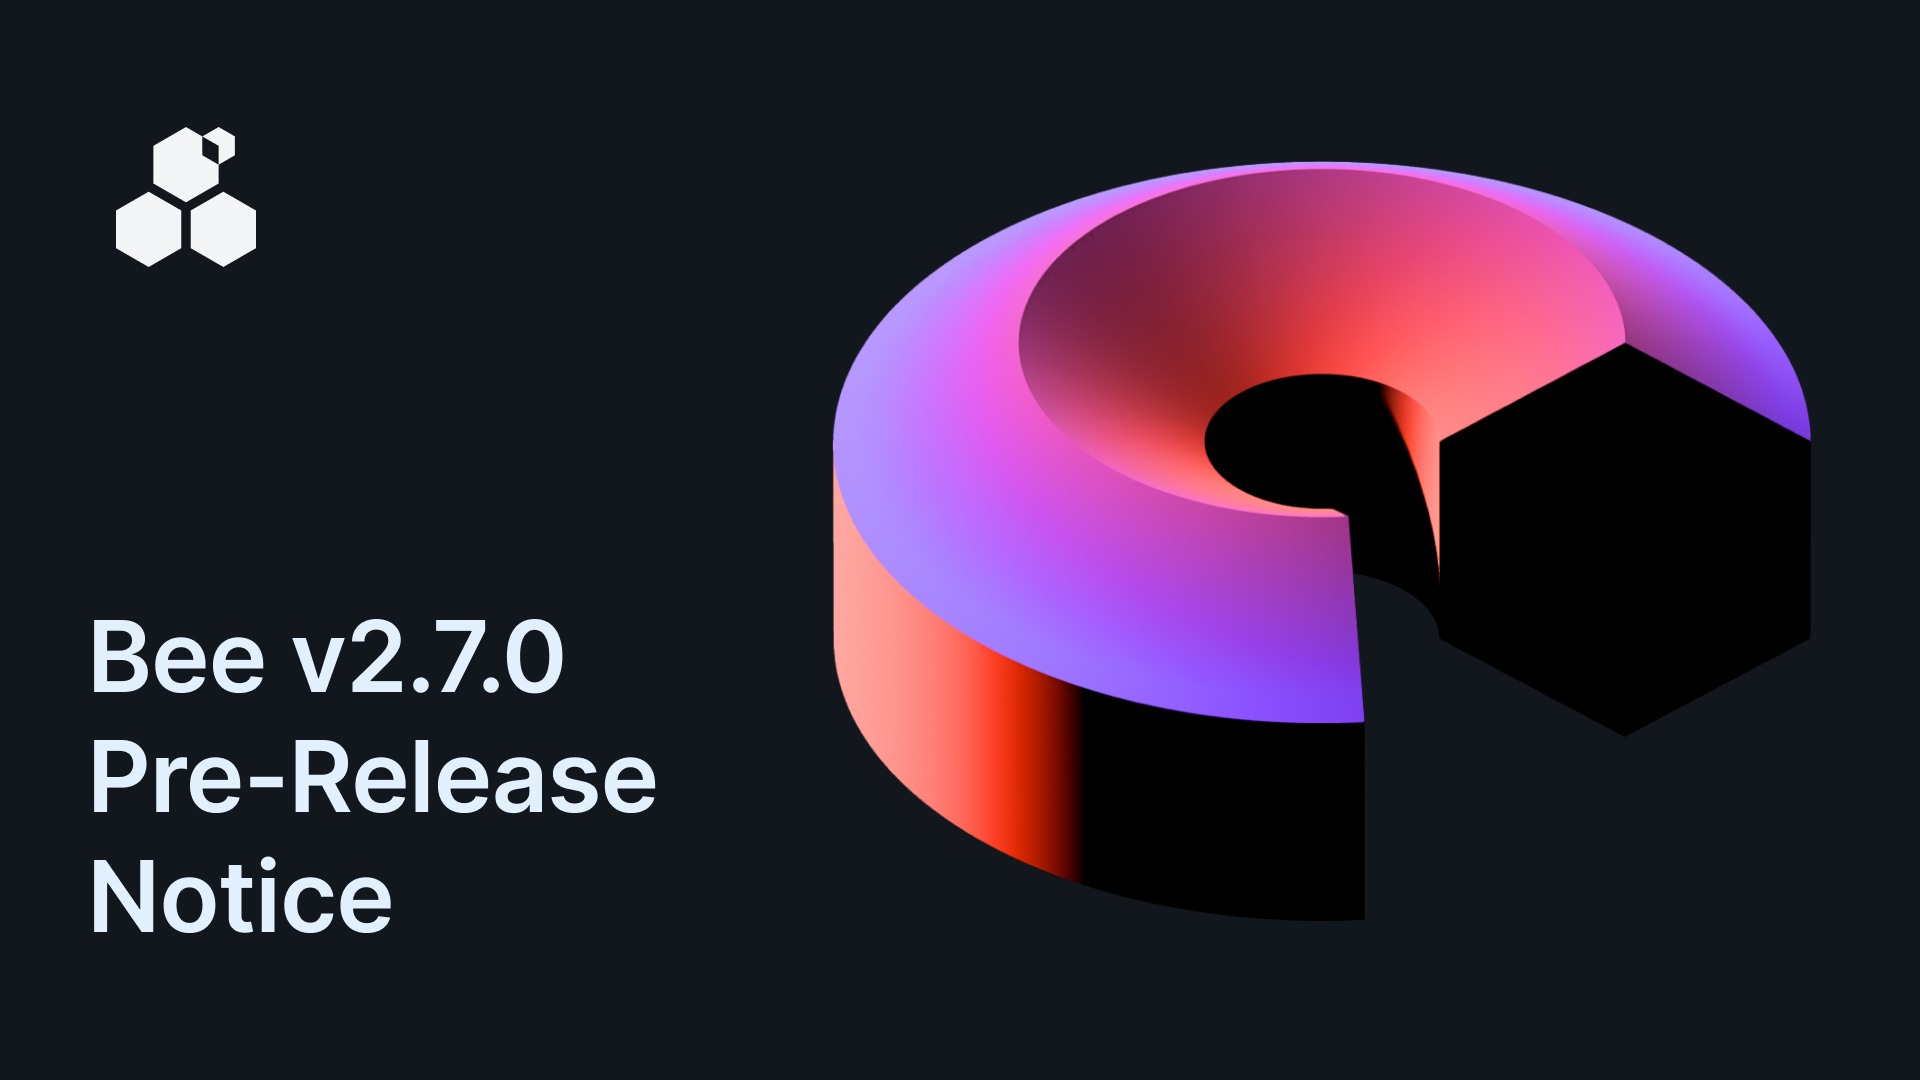
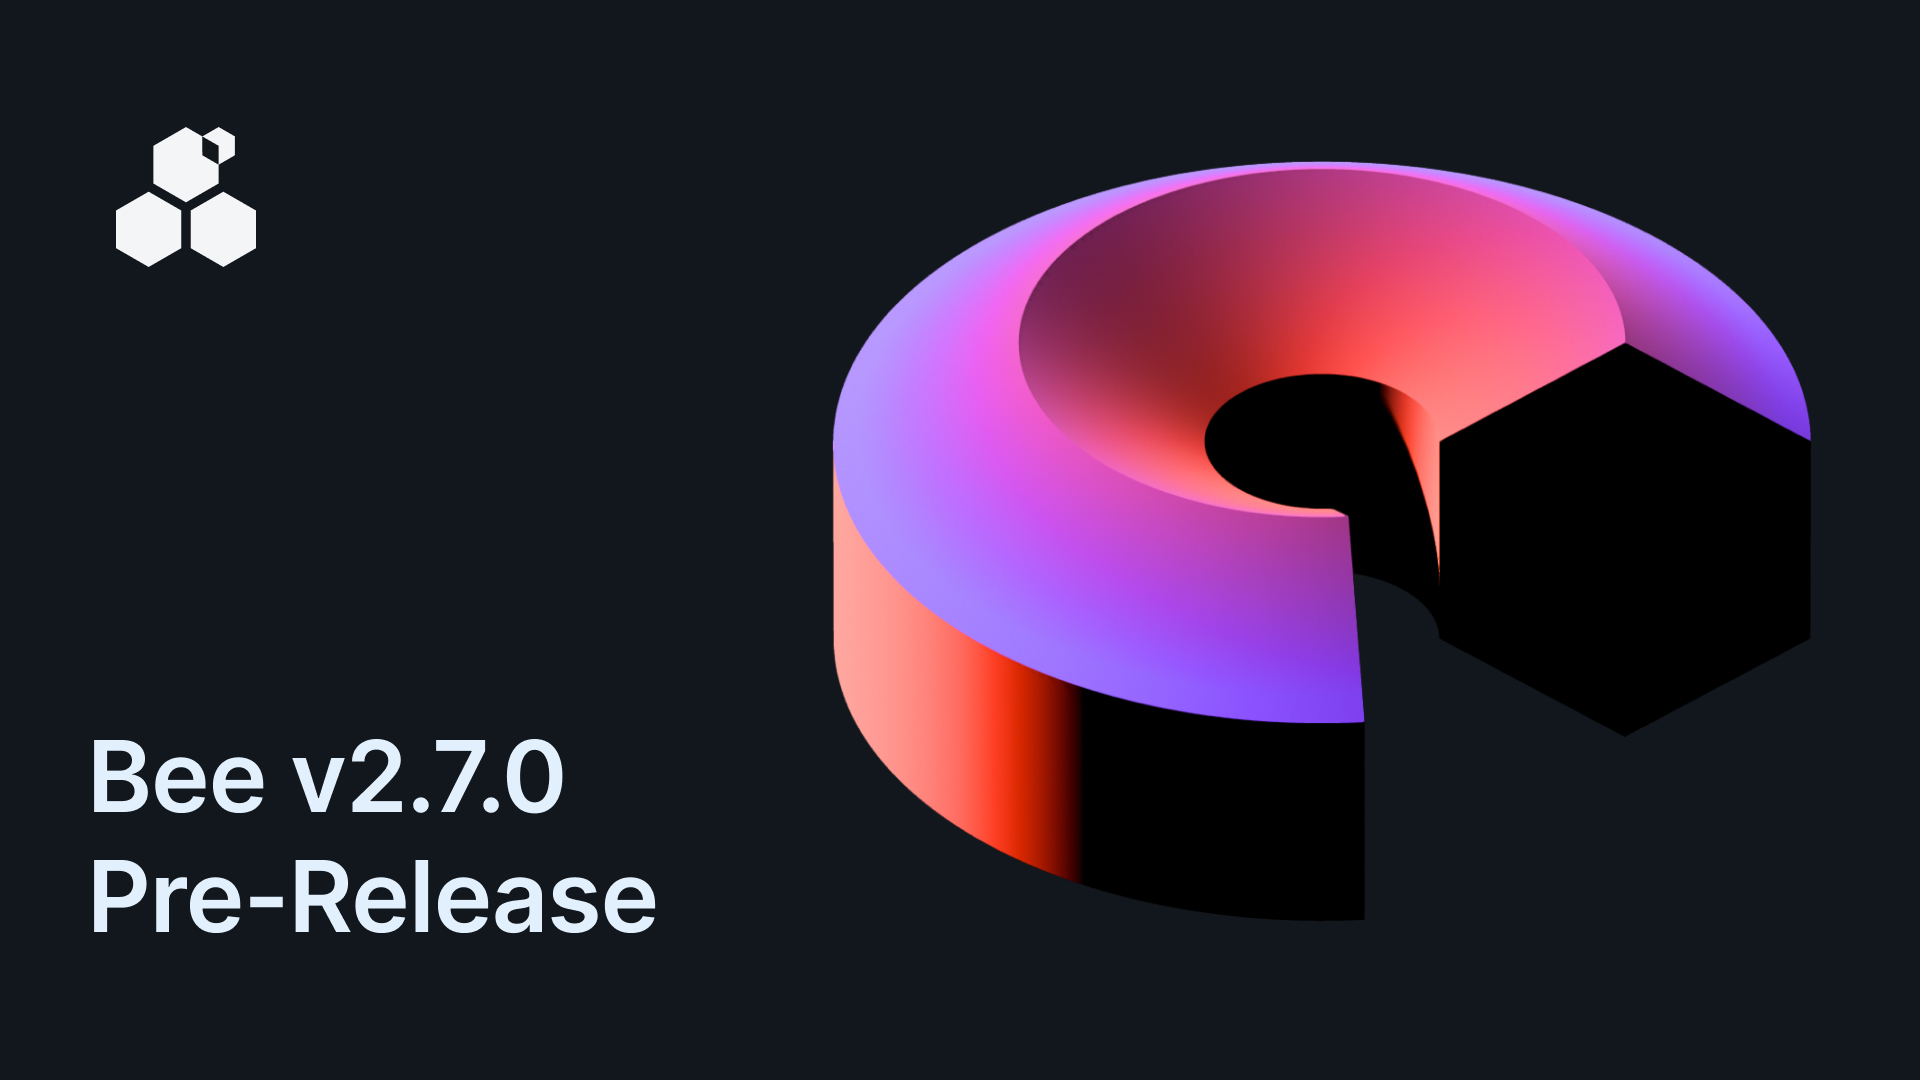
edits

Changed region(s): [[0.0312, 0.7944, 0.3438, 0.8861], [0.0625, 0.6722, 0.3438, 0.7639], [0.0312, 0.55, 0.3125, 0.6417]]

diff --git a/content/foundation/posts/bee-v2.7.0-pre-release-notice.md b/content/foundation/posts/bee-v2.7.0-pre-release-notice.md
@@ -2,20 +2,18 @@
 banner = "/uploads/bee-2-7-0.jpg"
 images = [ "/uploads/bee-2-7-0.jpg" ]
 categories = [ "Development updates" ]
-date = 2027-01-21T00:00:00.000Z
-description = "A pre-release overview of Bee 2.7.0, covering upcoming changes including AutoTLS and WSS support, improved durability and reliability, new metrics, and other updates relevant to node operators and Swarm developers."
+date = 2026-02-04T00:00:00.000Z
+description = "Bee 2.7.0 is scheduled to go live next week on Tuesday, February 10th — mark the date and get ready to update your nodes! It introduces support for AutoTLS and secure WebSocket connectivity, improves the flexibility of the networking layer with support for multiple underlay addresses, and includes targeted improvements to durability, reliability, and overall node stability."
 references_and_footnotes = [ ]
-title = "Bee Version 2.7.0 "
+title = "Bee Version 2.7.0 Pre-release"
 _template = "post"
 slug="bee-2-7-0-pre-release"
 +++
 
 
-PRE-RELEASE DRAFT POST - CONTENTS UNDER REVIEW
+## Bee v2.7.0 Goes Live Next Week!
 
-## Bee v2.7.0 Is Coming Soon - on TBD
-
-Bee 2.7.0 is scheduled to go live in one week on Tuesday, February 10th — mark the date and get ready to update your nodes! It introduces support for AutoTLS and secure WebSocket connectivity, improves the flexibility of the networking layer with support for multiple underlay addresses, and includes targeted improvements to durability, reliability, and overall node stability.
+Bee 2.7.0 is scheduled to go live next week on Tuesday, February 10th — mark the date and get ready to update your nodes! It introduces support for AutoTLS and secure WebSocket connectivity, improves the flexibility of the networking layer with support for multiple underlay addresses, and includes targeted improvements to durability, reliability, and overall node stability.
 
 This release focuses on three main areas:
 
@@ -27,14 +25,15 @@ Bee 2.7 also includes many bug fixes and internal improvements that strengthen t
 
 This post is a **pre-release announcement** intended to explain what is coming in Bee 2.7.0, the significance of the changes included in the release, as well as everything that node operators and developers should be aware of prior to release.
 
-{{< admonition info 2.7 >}}
-Bee 2.7 is a safe, non-disruptive, drop-in upgrade.
-No migrations or configuration changes are required, and all new functionality is opt-in. Existing nodes and applications should continue to work as before after upgrading.
+{{< admonition caution 2.7 >}}
+Bee 2.7 is an almost entirely non-disruptive upgrade without any breaking changes. In almost all cases, no migrations or configuration changes are required, and all new functionality is opt-in. 
+
+There is one edge case regarding NAT related options - with 2.7, the existing `nat-addr` and newly added `nat-wss-addr` options will now be validated (validation was not included in previous Bee versions), so if these options are used, make sure they are set to valid host and port values.
 {{< /admonition >}}
 
 ## AutoTLS and WSS: Foundations for Browser-Based Bee
 
-Bee 2.7 introduces **AutoTLS** and support for secure WebSocket connections (`wss://`).
+Bee 2.7 introduces **AutoTLS** and support for secure WebSocket connections (`wss://`) for Bee's p2p transport.
 
 With AutoTLS, Bee nodes can automatically obtain and manage TLS certificates and expose secure WSS endpoints without manual configuration. This allows standard browser environments to connect to Bee directly in a secure way without custom proxies or manually managed certificates.
 
@@ -56,7 +55,7 @@ Bee 2.7 adds support for **advertising and storing multiple underlay addresses**
 
 Previously, Bee nodes could only advertise a single underlay address. With this change:
 
-* Nodes can expose multiple transport addresses (currently only TCP and WSS)
+* Nodes can expose multiple p2p transport addresses (currently only TCP and WSS)
 * It lays the groundwork for more flexible transport selection in the future
 
 This is a foundational networking improvement and *is opt-in only*, no steps need be taken by operators if they do not wish to use the feature    
@@ -87,13 +86,17 @@ This section lists all changes in Bee 2.7 that introduce new options, new APIs, 
 
 ### New WSS / AutoTLS Configuration Options
 
-Bee 2.7 introduces several new configuration options related to secure WebSocket support and AutoTLS:
-
+To enable WSS and AutoTLS, operators only need to set the new `p2p-wss-enable` from its default of `false` to `true`:
 
 ```yaml
 # enable wss p2p connection (default: false)
-p2p-wss-enable: false
+p2p-wss-enable: true
+```
 
+Additionally, several other new configuration options related to secure WebSocket support and AutoTLS are introduced in Bee 2.7. Typically the default values can be left unmodified by operators:
+
+
+```yaml
 # wss address (default: :1635)
 p2p-wss-addr: ":1635"
 
@@ -108,12 +111,6 @@ autotls-registration-endpoint: https://registration.libp2p.direct
 
 # autotls certificate authority endpoint
 autotls-ca-endpoint: https://acme-v02.api.letsencrypt.org/directory
-```
-
-To enable WSS and AutoTLS, operators only need to set:
-
-```yaml
-p2p-wss-enable: true
 ```
 
 

diff --git a/content/_index.md b/content/_index.md
@@ -1,6 +1,6 @@
 +++
 description = 'Swarm news. An open-source, censorship-resistant blog hosted on Swarm.'
-featured = "posts/swarm-strategic-focus-framework-2026.md"
+featured = "posts/bee-v2.7.0-pre-release-notice.md"
 featured_blog = "foundation"
 featured_secondary_first = "posts/monthly-development-update-dec-2025.md"
 featured_secondary_first_blog = "foundation"
